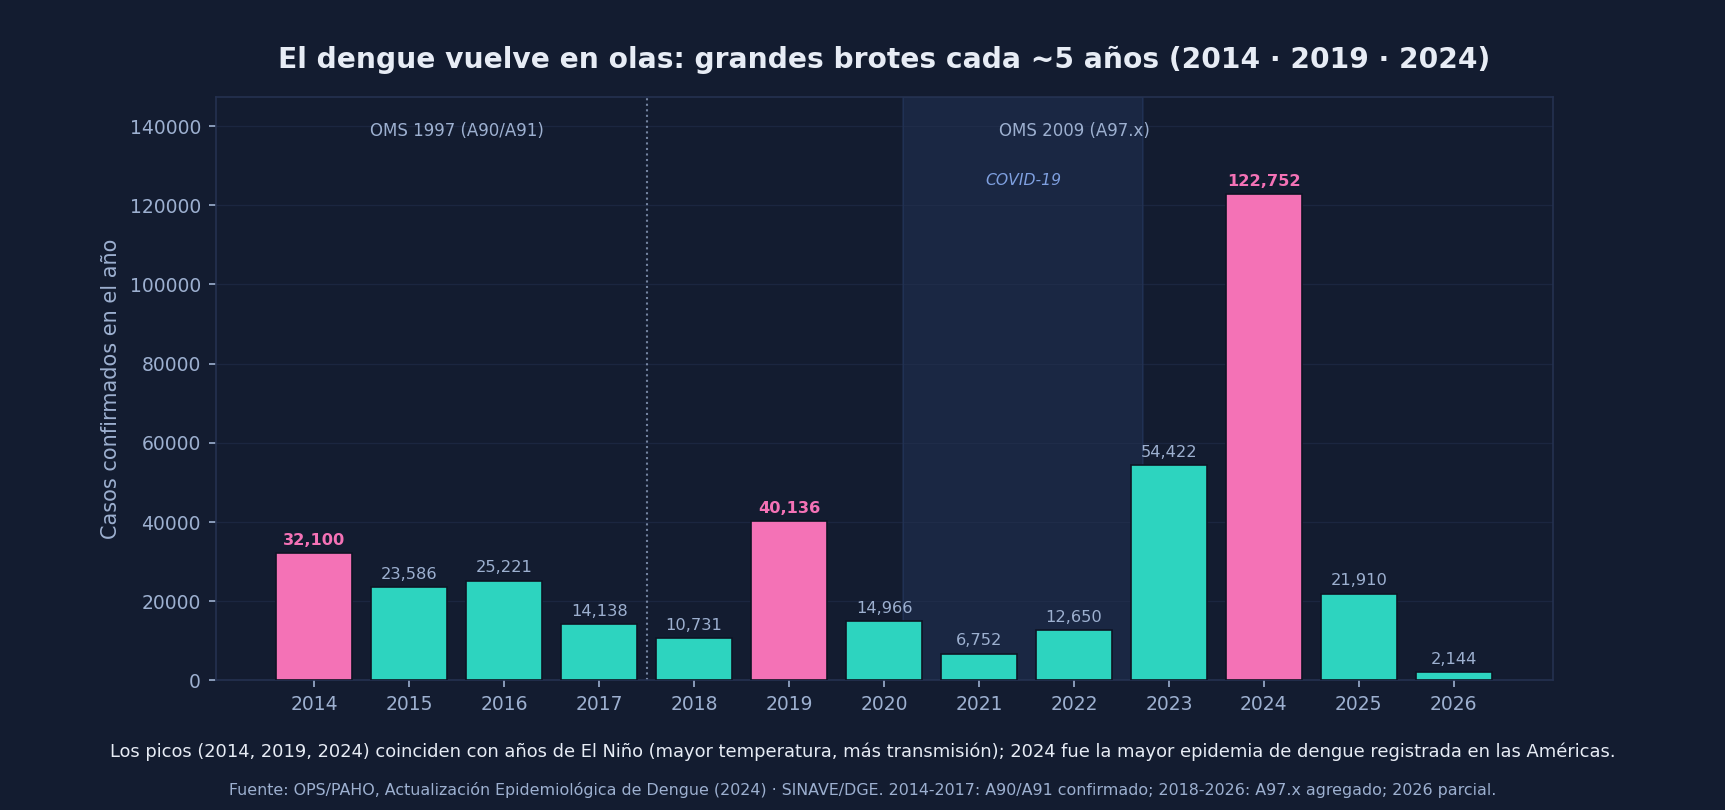
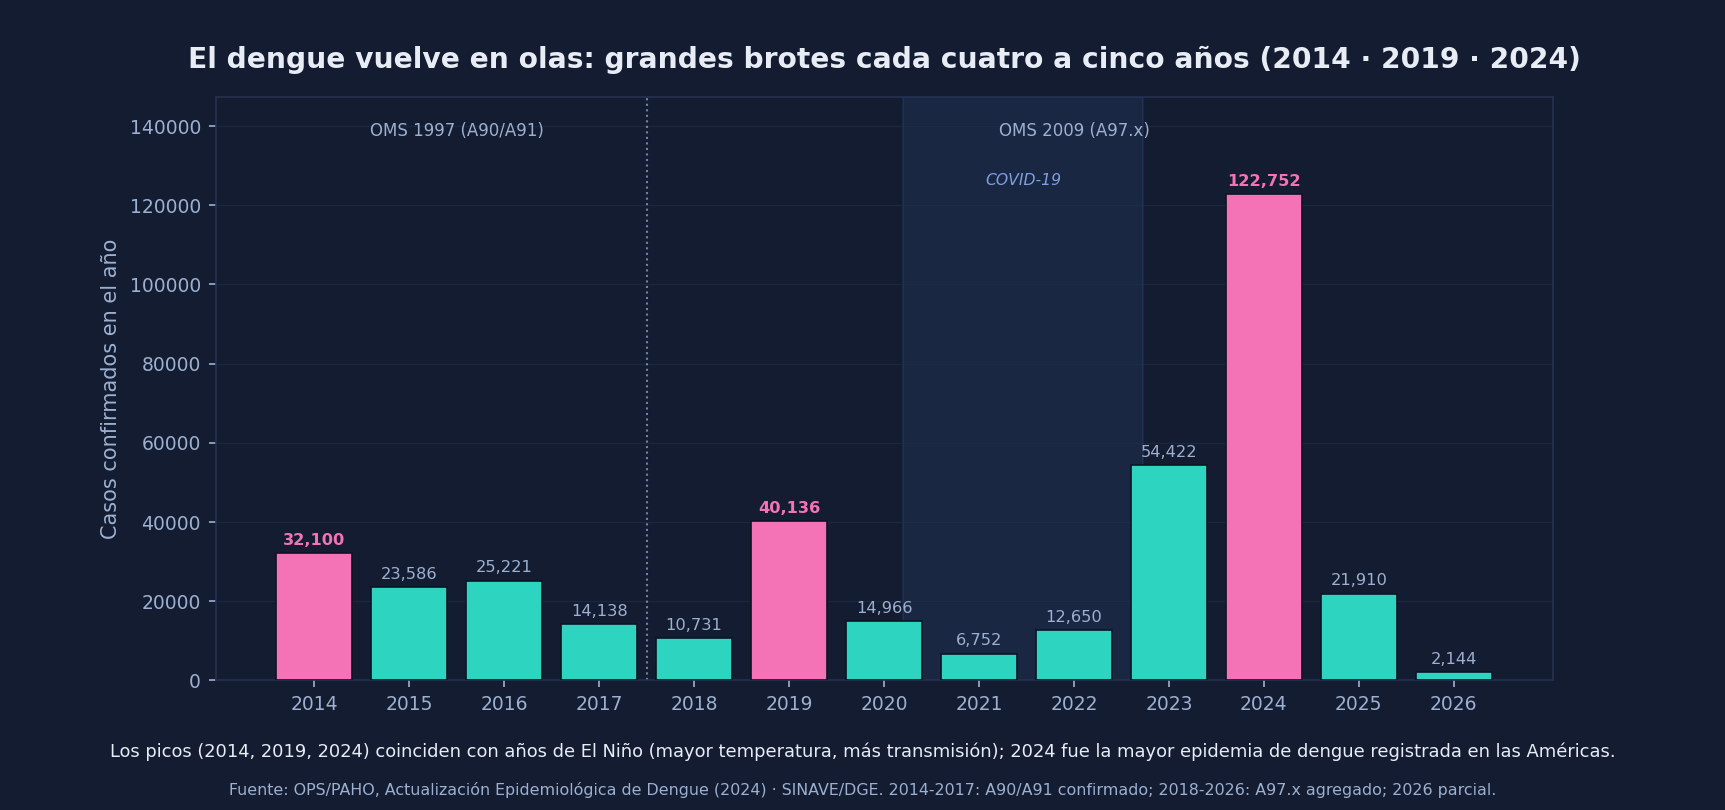
fix(dengue): eje del chart derivado de meta.chart_from_year + JSON/charts regenerados
- dengue.html: fromYr = meta.chart_from_year (fallback año-actual-4), sin hardcode 2022.
- dengue_forecast.json + dengue_historico_ciclo.png regenerados desde la fuente única.

Changed region(s): [[0.0922, 0.0617, 0.9217, 0.0926]]

diff --git a/dengue.html b/dengue.html
@@ -646,8 +646,8 @@
             deep: cvar('--bg-deep', '#0E1424'), cream: cvar('--cream', '#E7ECF5'),
           };
 
-          // Solo desde 2022 para que se vea el detalle reciente + el horizonte futuro.
-          const fromYr = 2022;
+          // Inicio del eje derivado del dato (meta.chart_from_year): detalle reciente + horizonte.
+          const fromYr = m.chart_from_year || (new Date().getUTCFullYear() - 4);
           const hist = (d.historico || []).map(p => ({ x: decYear(p.ds), y: p.y })).filter(p => p.x >= fromYr);
           const pron = (d.pronostico || []).map(p => ({ x: decYear(p.ds), y: p.yhat }));
           const pLo = (d.pronostico || []).map(p => ({ x: decYear(p.ds), y: p.yhat_lower }));
